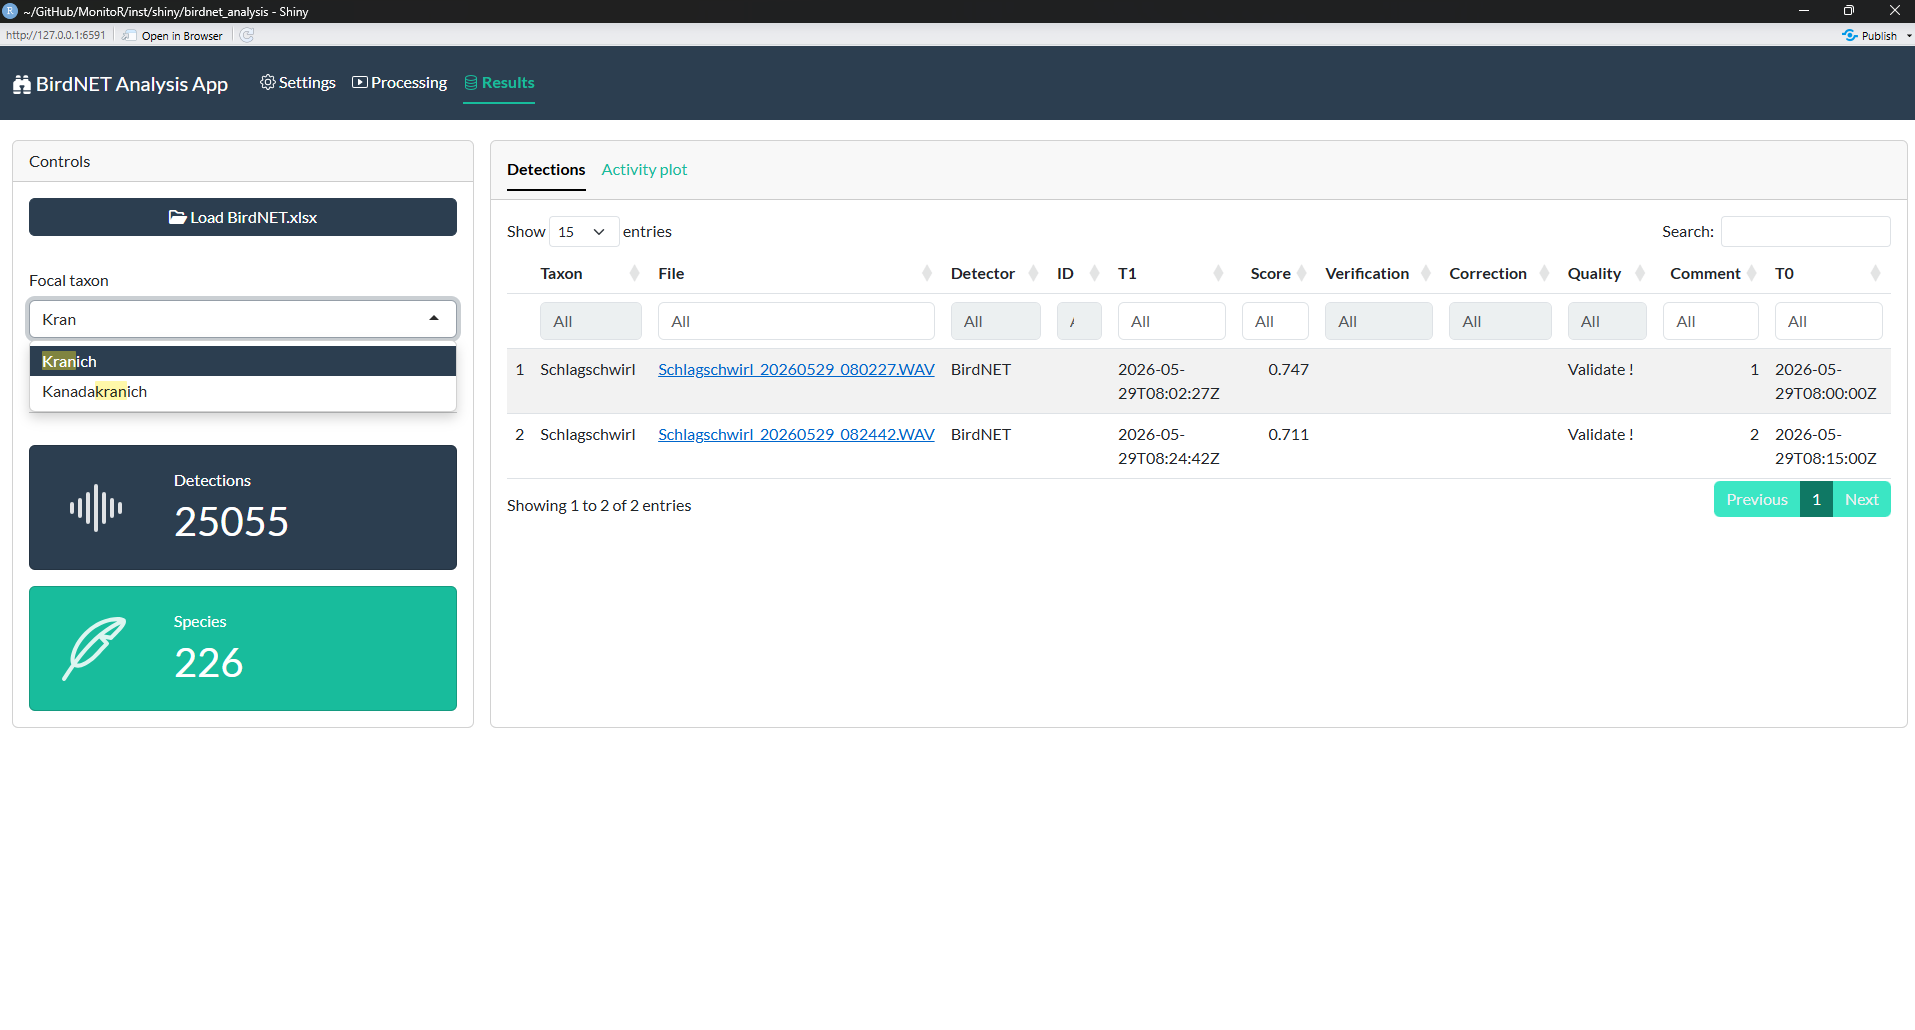
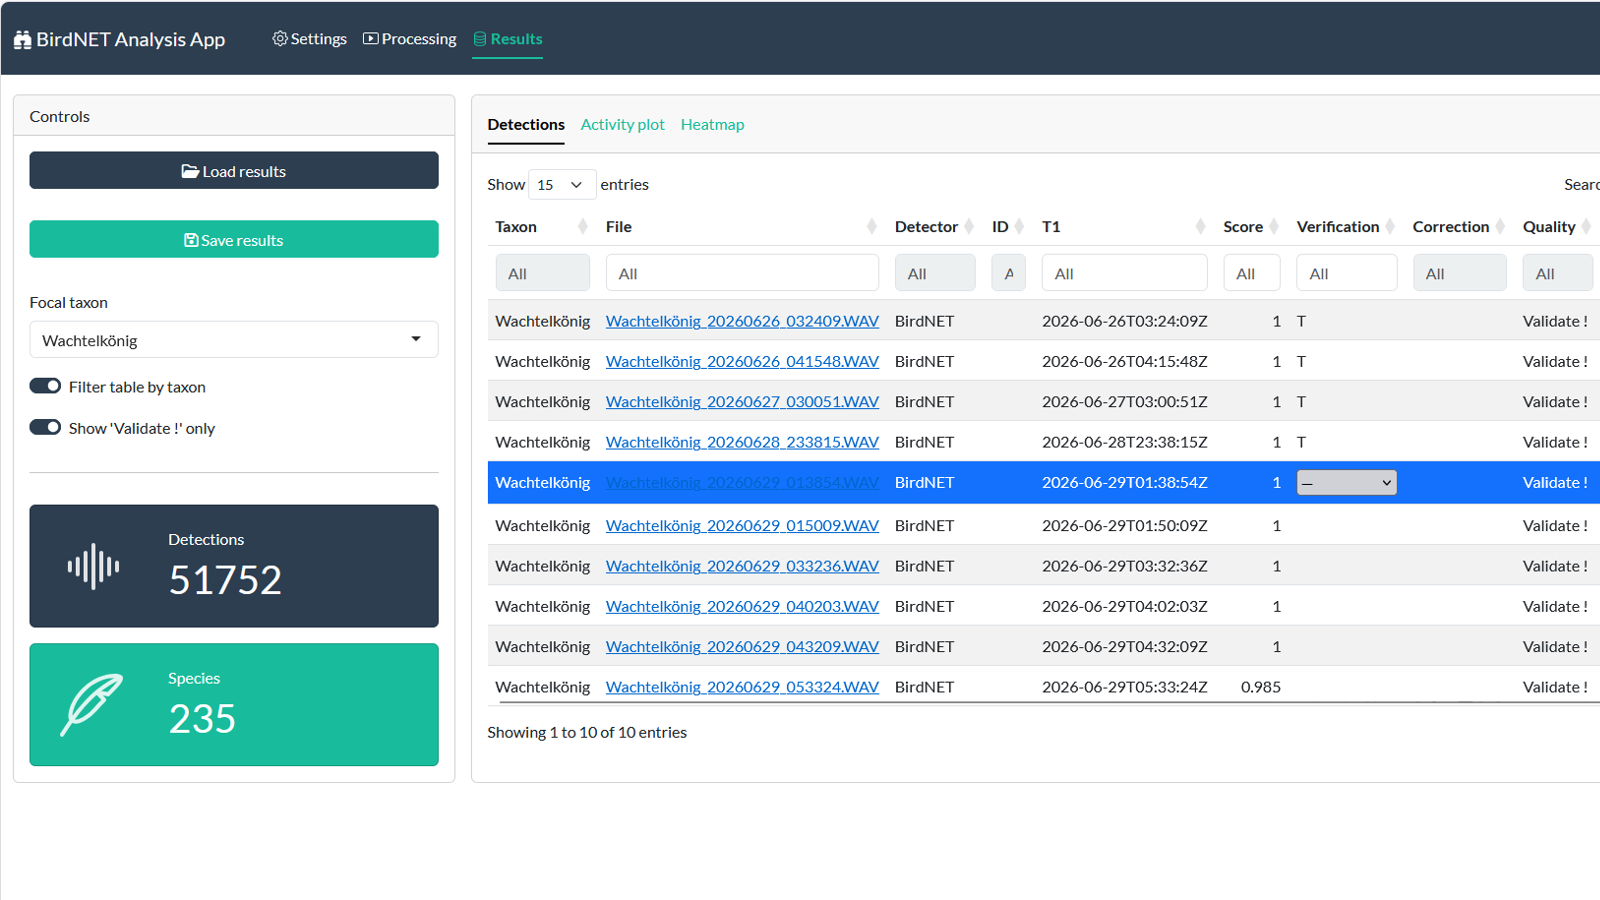
updating README

diff --git a/README.md b/README.md
@@ -5,16 +5,16 @@
 
 ------------------------------------------------------------------------
 
-This package provides workflows in form of `R Markdown` templates for
-processing monitoring data, for now mostly focusing on the analysis of
-audio files obtained by deploying passive acoustic monitoring (PAM)
-devices. The package partly relies on
+This package provides workflows in form of `R Markdown` templates &
+`Shiny-Apps` for processing monitoring data, for now mostly focusing on
+the analysis of long audio files obtained by deploying passive acoustic
+monitoring (PAM) devices. The package partly relies on
 [NocMigR2](github.com/mottensmann/NocMigR2). See details there.
 
-To install the package, use
-[devtools](https://github.com/r-lib/devtools):
+To install the package, use [pak](https://github.com/r-lib/pak):
 
 ``` r
+if (!"pak" %in% installed.packages()) install.packages("pak")
 pak::pak("mottensmann/MonitoR", dependencies = TRUE)
 ```
 
@@ -34,7 +34,7 @@ using [birdnetR](github.com/birdnet-team/birdnetR):
 birdnet_app(display = "external")
 ```
 
-<img src="README_files/app1.png" width="613" style="display: block; margin: auto;" /><img src="README_files/app2.png" width="612" style="display: block; margin: auto;" /><img src="README_files/app3.png" width="613" style="display: block; margin: auto;" />
+<img src="README_files/app1.png" width="1408" style="display: block; margin: auto;" /><img src="README_files/app2.png" width="512" style="display: block; margin: auto;" /><img src="README_files/app3.png" width="512" style="display: block; margin: auto;" /><img src="README_files/app4.png" width="512" style="display: block; margin: auto;" />
 
 ## `RMarkdown Templates`
 
@@ -50,6 +50,9 @@ validation of audio data classified using
 - 2)  Extracting results obtained by using a AI-based classifier with
       [BirdNET-Analyzer](https://github.com/kahst/BirdNET-Analyzer)
 - 3)  Archiving manually verified records to a xlsx-database
+
+*Not further developed. Easier implementation provided in form of the
+Shiny-App*
 
 ### `nestcamera`
 